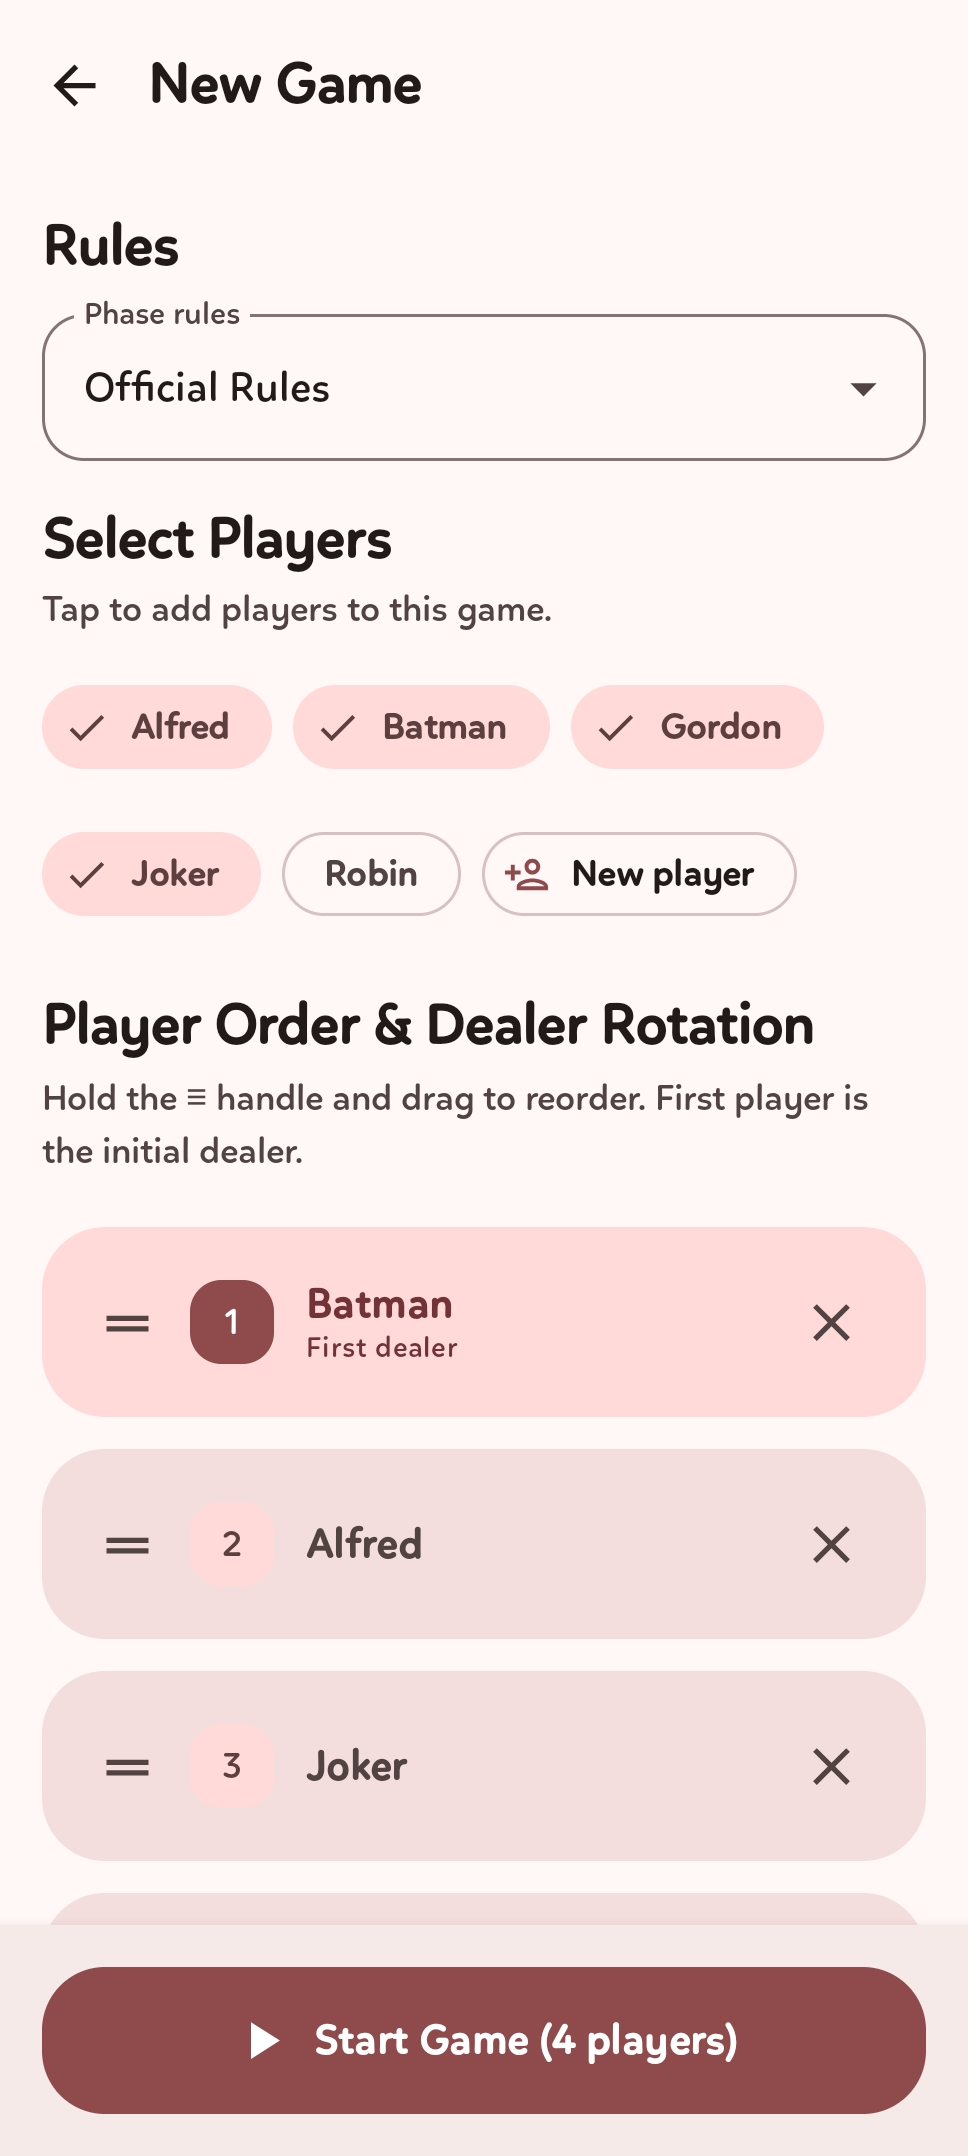
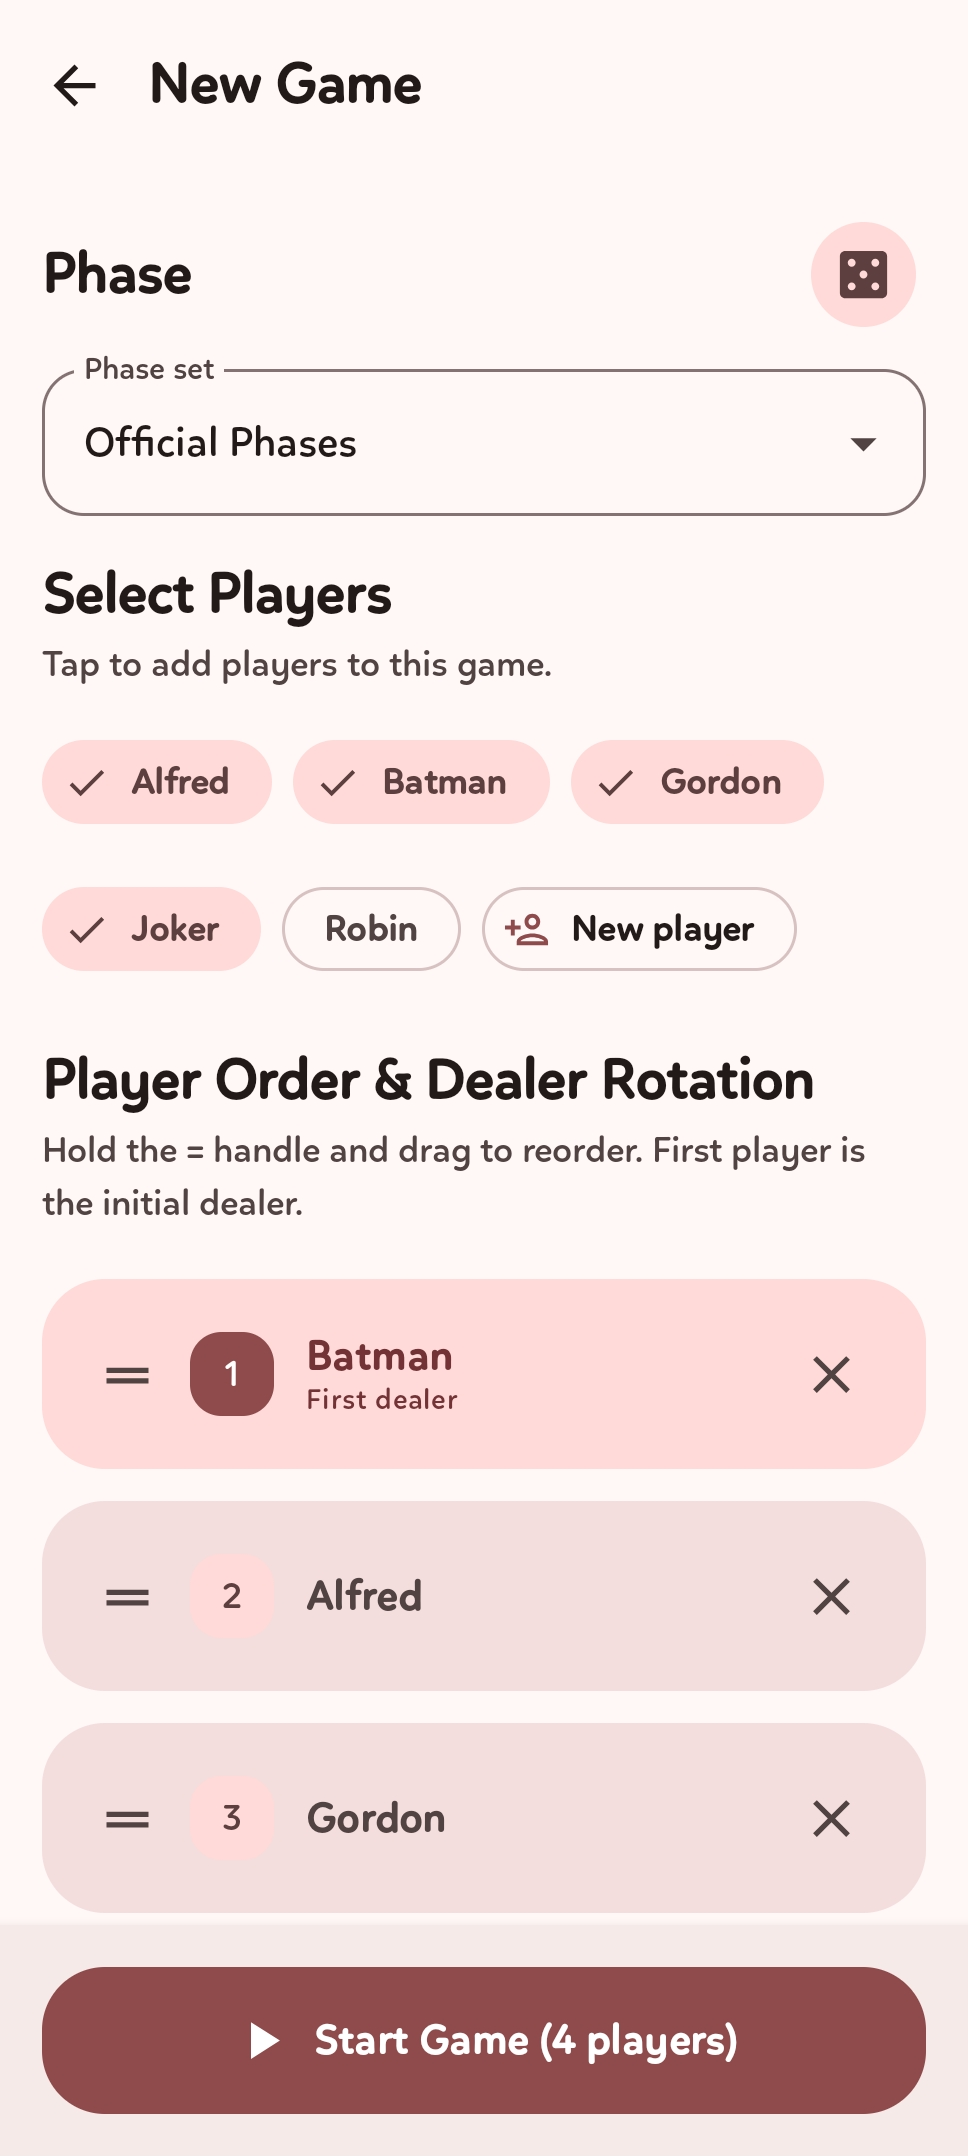
new screenshots

Changed region(s): [[0.031, 0.0932, 0.9607, 0.9012], [0.8368, 0.0932, 0.9607, 0.2175]]

diff --git a/README.md b/README.md
@@ -23,6 +23,7 @@ Every Phase 10 score tracker app on the Play Store falls into one of a few categ
   <img src="assets/screenshots/entry.png" width="200" />
   <img src="assets/screenshots/result.png" width="200" />
   <img src="assets/screenshots/leaderboard.png" width="200" />
+  <img src="assets/screenshots/custom.png" width="200" />
 </p>
 
 ### Foldable / Tablet — Dual Pane
@@ -146,4 +147,4 @@ MIT. Do whatever you want with it.
 
 ---
 
-*Built with Claude — because the Play Store didn't deserve another ad-infested score tracker.*
+*Built with Claude — because the people didn't deserve another ad-infested score tracker.*